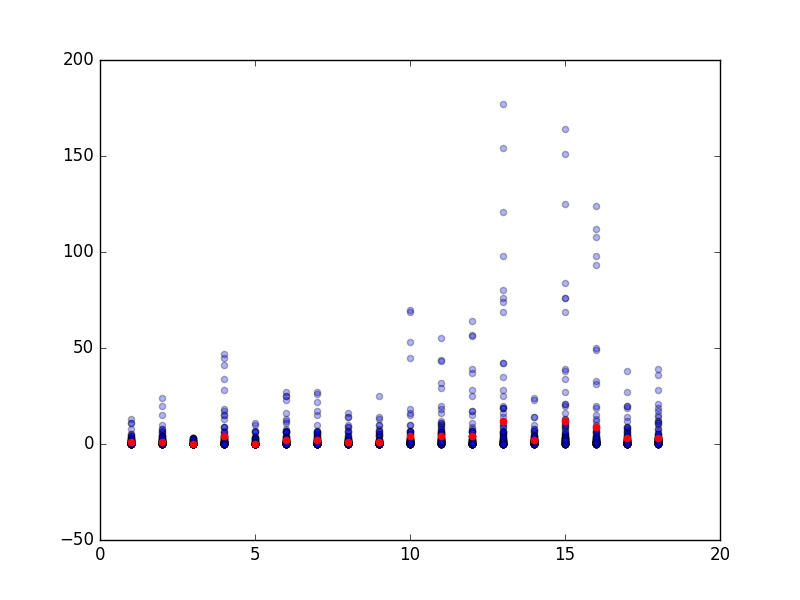
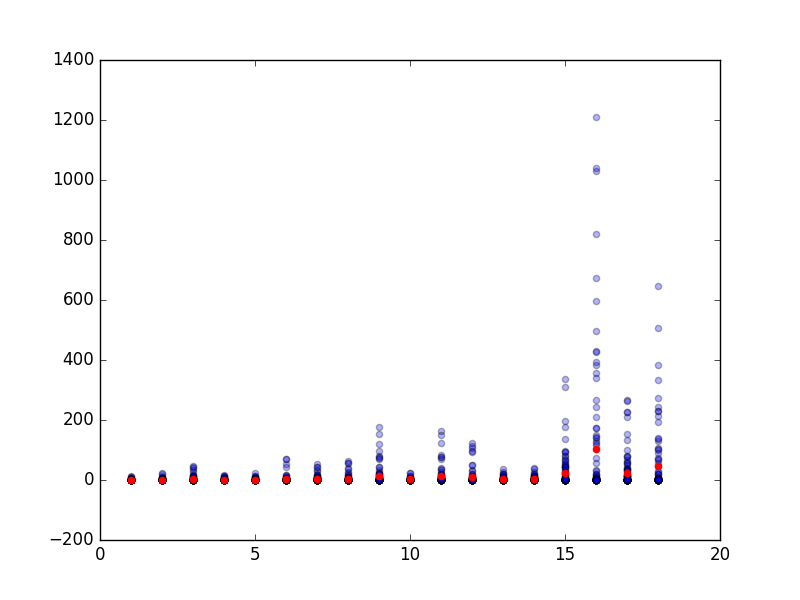
New data

diff --git a/practical4/practical4-code/plotResults.py b/practical4/practical4-code/plotResults.py
@@ -4,11 +4,7 @@ import matplotlib.pyplot as plt
 arr = [
 		[0, 0, 0, 0, 0, 2, 2, 1, 1, 4, 2, 1, 1, 2, 1, 1, 1, 0, 0, 5, 0, 3, 0, 0, 0, 0, 0, 0, 3, 1, 2, 0, 1, 2, 0, 2, 1, 3, 1, 1, 13, 0, 1, 1, 0, 1, 2, 0, 0, 0, 1, 0, 0, 0, 0, 3, 1, 1, 0, 0, 0, 0, 4, 0, 11, 100, 2, 1, 0, 8, 0, 0, 0, 0, 0, 11, 2, 0, 1, 0, 0, 0, 2, 0, 5, 3, 0, 0, 0, 4, 2, 1, 0, 1, 0, 0, 0, 0, 0, 2], 				# 4. No gravity
 		[0, 0, 0, 1, 1, 0, 1, 7, 0, 2, 0, 0, 5, 0, 1, 0, 0, 2, 2, 1, 1, 0, 4, 6, 2, 2, 1, 2, 6, 0, 1, 0, 1, 4, 0, 0, 0, 1, 0, 2, 0, 3, 1, 0, 3, 3, 15, 2, 1, 0, 20, 2, 4, 0, 8, 2, 10, 2, 1, 1, 0, 0, 1, 0, 0, 0, 0, 4, 1, 8, 1, 2, 0, 1, 4, 0, 24, 0, 0, 0, 56, 0, 3, 0, 1, 1, 0, 0, 0, 1, 0, 0, 1, 0, 0, 2, 0, 3, 0, 0],				# 5. Added gravity
-		[0, 0, 0, 0, 0, 0, 0, 0, 2, 0, 0, 0, 0, 2, 1, 0, 0, 0, 0, 0, 0, 3, 0, 0, 0, 0, 0, 0, 2, 0, 0, 2, 0, 1, 0, 1, 0, 0, 1, 2, 0, 2, 3, 0, 0, 0, 0, 0, 0, 3, 1, 0, 0, 1, 0, 0, 3, 0, 0, 0, 0, 0, 1, 2, 0, 0, 1, 0, 0, 3, 2, 0, 0, 0, 0, 1, 0, 0, 0, 0, 0, 0, 0, 0, 0, 0, 0, 1, 1, 0, 0, 0, 3, 0, 2, 0, 0, 1, 2, 1],					# 7. Added velocity
 		[0, 0, 0, 0, 0, 0, 0, 1, 0, 1, 0, 1, 1, 1, 2, 0, 4, 1, 1, 2, 0, 0, 3, 1, 0, 3, 4, 2, 0, 5, 1, 1, 0, 1, 4, 0, 3, 9, 15, 1, 0, 1, 17, 2, 18, 1, 2, 4, 9, 3, 1, 2, 0, 6, 1, 4, 0, 6, 28, 0, 45, 1, 13, 0, 0, 2, 41, 3, 7, 0, 0, 0, 34, 1, 0, 9, 47, 0, 0, 15, 0, 1, 0, 0, 0, 1, 1, 0, 3, 0, 0, 0, 2, 1, 0, 0, 0, 2, 0, 0],			# 8. Starting gravity = -4
-		[0, 0, 0, 0, 0, 1, 0, 0, 0, 0, 0, 2, 1, 0, 2, 0, 2, 3, 1, 3, 4, 1, 0, 2, 3, 0, 1, 3, 6, 10, 3, 3, 7, 1, 11, 2, 0, 0, 1, 0, 0, 0, 0, 0, 0, 0, 3, 0, 0, 7, 2, 0, 1, 0, 0, 6, 0, 0, 0, 0, 0, 0, 1, 0, 0, 1, 0, 0, 0, 0, 0, 0, 0, 0, 0, 0, 0, 0, 0, 0, 0, 0, 0, 0, 0, 0, 0, 0, 0, 0, 0, 0, 0, 0, 0, 0, 1, 0, 0, 0],					# 9. gamma = 0.2
-		[0, 0, 0, 0, 0, 0, 0, 1, 0, 0, 1, 1, 0, 0, 1, 1, 2, 1, 2, 0, 0, 1, 1, 1, 2, 2, 0, 2, 1, 2, 0, 1, 2, 3, 4, 1, 0, 8, 4, 1, 1, 3, 3, 6, 23, 25, 2, 7, 16, 1, 0, 4, 0, 0, 12, 27, 1, 0, 1, 0, 2, 0, 0, 1, 0, 0, 0, 0, 6, 7, 6, 0, 13, 3, 1, 0, 6, 25, 11, 7, 0, 1, 0, 0, 1, 0, 0, 1, 3, 1, 0, 0, 0, 2, 0, 1, 0, 0, 0, 0],			# 10. gamma = 0.9
-		[0, 0, 0, 0, 0, 0, 0, 0, 1, 0, 2, 0, 0, 1, 1, 2, 1, 0, 1, 1, 3, 5, 1, 0, 5, 1, 1, 0, 0, 1, 3, 1, 0, 0, 2, 1, 2, 5, 2, 2, 0, 1, 3, 6, 0, 1, 3, 0, 0, 6, 0, 4, 26, 27, 0, 15, 0, 0, 17, 0, 38, 2, 4, 7, 22, 0, 3, 7, 10, 0, 0, 2, 0, 1, 4, 1, 0, 2, 6, 0, 0, 0, 1, 0, 0, 0, 0, 1, 2, 0, 0, 0, 0, 0, 0, 0, 0, 0, 0, 2],			# 11. gamma = 0.5, alpha = 0.8
 		[0, 0, 0, 0, 0, 1, 0, 0, 0, 0, 0, 0, 1, 1, 5, 1, 2, 0, 1, 1, 3, 0, 0, 2, 0, 0, 2, 1, 0, 2, 1, 1, 1, 1, 9, 2, 1, 9, 2, 7, 10, 1, 0, 3, 6, 1, 7, 40, 1, 3, 0, 0, 16, 1, 3, 2, 1, 0, 1, 2, 0, 1, 0, 2, 1, 0, 1, 0, 1, 1, 0, 0, 0, 4, 0, 1, 0, 1, 1, 14, 0, 0, 4, 0, 0, 0, 1, 0, 2, 1, 0, 2, 0, 0, 0, 14, 0, 1, 0, 0], 				# 13. updating alpha over time
 		[0, 0, 2, 0, 0, 1, 0, 0, 2, 1, 0, 1, 1, 1, 0, 0, 0, 1, 0, 0, 1, 0, 1, 0, 0, 0, 1, 1, 1, 1, 2, 0, 0, 1, 1, 0, 0, 0, 1, 1, 0, 2, 0, 0, 0, 1, 0, 0, 4, 2, 4, 4, 10, 5, 8, 5, 0, 0, 13, 0, 10, 14, 0, 25, 0, 7, 6, 1, 0, 1, 0, 0, 0, 0, 0, 1, 0, 0, 1, 0, 1, 0, 0, 0, 0, 0, 1, 0, 0, 0, 0, 1, 1, 0, 5, 7, 2, 2, 0, 0], 				# 14. same conditions as 8
 		[0, 0, 0, 0, 0, 0, 0, 0, 0, 0, 1, 1, 0, 1, 1, 1, 0, 0, 0, 0, 1, 1, 1, 0, 1, 1, 1, 1, 2, 1, 0, 0, 2, 2, 3, 5, 2, 2, 1, 0, 2, 1, 10, 0, 2, 0, 1, 2, 6, 3, 2, 1, 7, 1, 1, 1, 1, 5, 3, 3, 1, 7, 1, 3, 2, 2, 10, 0, 0, 5, 7, 0, 0, 2, 45, 15, 3, 0, 16, 0, 6, 0, 70, 0, 2, 1, 53, 0, 3, 0, 219, 2, 0, 69, 0, 249, 1, 358, 247, 18],	# 15. marginBox = 20 
@@ -20,6 +16,10 @@ arr = [
 		[0, 0, 0, 0, 0, 0, 0, 0, 0, 0, 0, 0, 2, 1, 1, 2, 0, 2, 6, 1, 1, 1, 0, 0, 6, 1, 0, 3, 0, 1, 1, 1, 1, 2, 1, 3, 2, 3, 1, 2, 8, 3, 1, 0, 15, 2, 49, 33, 1, 2, 31, 1, 7, 0, 0, 2, 9, 93, 124, 50, 0, 223, 6, 3, 1, 10, 215, 4, 98, 12, 2, 108, 1, 112, 1, 1, 1, 19, 1, 4, 20, 1, 0, 0, 1, 2, 1, 1, 4, 0, 1, 3, 13, 2, 5, 1, 3, 0, 1, 1], # 21. Repeat of 20
 		[0, 0, 0, 1, 0, 0, 0, 0, 0, 0, 0, 2, 0, 0, 0, 0, 0, 2, 0, 2, 0, 1, 0, 1, 1, 1, 2, 1, 0, 1, 1, 2, 1, 0, 1, 1, 2, 4, 4, 2, 0, 2, 0, 2, 0, 2, 2, 0, 9, 0, 1, 6, 9, 1, 0, 19, 1, 3, 8, 6, 0, 20, 38, 4, 0, 0, 0, 8, 0, 3, 2, 52, 0, 1, 27, 1, 66, 7, 20, 1, 0, 0, 1, 3, 1, 2, 9, 0, 1, 5, 3, 14, 12, 1, 0, 5, 4, 1, 0, 3],			# 22. Added epsilon-greedy (e = 1/tick)
 		[0, 0, 3, 0, 0, 0, 0, 0, 0, 0, 0, 0, 0, 0, 0, 0, 0, 1, 2, 3, 2, 2, 8, 0, 2, 4, 2, 1, 3, 2, 3, 8, 1, 1, 1, 1, 1, 2, 1, 3, 2, 1, 12, 1, 19, 5, 1, 1, 14, 2, 4, 3, 1, 3, 36, 6, 1, 1, 12, 2, 2, 3, 11, 1, 1, 3, 1, 0, 39, 4, 89, 15, 17, 2, 28, 1, 1, 0, 3, 2, 10, 1, 3, 2, 0, 1, 1, 2, 21, 0, 2, 0, 2, 11, 0, 3, 5, 3, 5, 1], 	# 23. Epsilon cutoff at 0.01
+		[0, 0, 0, 0, 1, 0, 0, 0, 0, 0, 1, 0, 0, 0, 0, 0, 0, 2, 2, 0, 0, 0, 0, 0, 5, 0, 2, 6, 1, 2, 12, 65, 42, 24, 2, 1, 50, 136, 2, 933, 1, 17, 3, 4, 0, 2, 9, 79, 311, 33, 178, 2, 2, 2, 2, 1, 2, 1, 9, 45, 1, 26, 1, 34, 1, 1, 43, 24, 2, 1, 70, 198, 1, 2, 2, 93, 2, 0, 9, 1, 48, 3, 336, 56, 0, 43, 1, 55, 0, 96, 92, 3, 21, 2, 1, 79, 0, 2, 68, 6], # 27. alpha falling as (0.5 / (tick / 20 + 1))
+		[0, 0, 0, 0, 0, 1, 0, 0, 3, 0, 0, 5, 0, 0, 1, 11, 3, 10, 2, 3, 0, 2, 8, 1, 14, 0, 6, 8, 2, 19, 2, 116, 140, 2, 7, 1, 2, 4, 1, 1, 34, 149, 0, 0, 131, 2, 1, 1, 1, 385, 266, 429, 0, 2, 17, 1, 3, 2, 174, 56, 2, 4, 394, 172, 1, 245, 1, 30, 144, 427, 125, 1, 210, 597, 5, 1, 1, 0, 1, 1, 1, 358, 821, 498, 1, 1, 5, 674, 1, 1, 21, 1031, 0, 2, 1041, 1210, 0, 339, 75, 1], # 28. alpha update starting at 0.2
+		[0, 0, 1, 0, 0, 0, 0, 2, 2, 0, 1, 1, 2, 0, 1, 0, 0, 18, 2, 1, 29, 1, 1, 1, 14, 1, 1, 3, 4, 1, 18, 41, 1, 1, 209, 12, 79, 9, 1, 267, 37, 1, 4, 1, 13, 40, 2, 227, 4, 2, 15, 57, 2, 0, 1, 49, 1, 1, 14, 0, 1, 35, 1, 2, 60, 0, 0, 1, 0, 3, 0, 134, 18, 13, 76, 35, 79, 99, 2, 226, 1, 0, 1, 58, 3, 0, 0, 2, 1, 265, 154, 1, 1, 10, 1, 34, 1, 1, 68, 4], # 29. gamma = 0.2
+		[0, 0, 0, 0, 0, 1, 3, 0, 4, 0, 0, 0, 5, 4, 7, 3, 0, 1, 0, 1, 0, 2, 6, 2, 6, 5, 1, 19, 48, 56, 3, 108, 3, 0, 1, 1, 1, 2, 11, 1, 2, 0, 4, 71, 2, 104, 7, 31, 1, 1, 4, 382, 1, 7, 272, 2, 2, 2, 0, 68, 6, 0, 0, 0, 1, 19, 193, 100, 2, 2, 3, 646, 1, 90, 2, 131, 0, 1, 2, 138, 0, 1, 0, 1, 506, 215, 0, 0, 20, 4, 26, 139, 5, 231, 73, 245, 332, 229, 0, 2], # 30. Repeat of 28
 	]
 
 # Eliminate outliers

diff --git a/practical4/practical4-code/plotTime.py b/practical4/practical4-code/plotTime.py
@@ -4,6 +4,8 @@ import matplotlib.pyplot as plt
 arr = [
 		[0, 0, 0, 1, 0, 0, 0, 0, 0, 0, 0, 2, 0, 0, 0, 0, 0, 2, 0, 2, 0, 1, 0, 1, 1, 1, 2, 1, 0, 1, 1, 2, 1, 0, 1, 1, 2, 4, 4, 2, 0, 2, 0, 2, 0, 2, 2, 0, 9, 0, 1, 6, 9, 1, 0, 19, 1, 3, 8, 6, 0, 20, 38, 4, 0, 0, 0, 8, 0, 3, 2, 52, 0, 1, 27, 1, 66, 7, 20, 1, 0, 0, 1, 3, 1, 2, 9, 0, 1, 5, 3, 14, 12, 1, 0, 5, 4, 1, 0, 3],			# 22. Added epsilon-greedy (e = 1/tick)
 		[0, 0, 3, 0, 0, 0, 0, 0, 0, 0, 0, 0, 0, 0, 0, 0, 0, 1, 2, 3, 2, 2, 8, 0, 2, 4, 2, 1, 3, 2, 3, 8, 1, 1, 1, 1, 1, 2, 1, 3, 2, 1, 12, 1, 19, 5, 1, 1, 14, 2, 4, 3, 1, 3, 36, 6, 1, 1, 12, 2, 2, 3, 11, 1, 1, 3, 1, 0, 39, 4, 89, 15, 17, 2, 28, 1, 1, 0, 3, 2, 10, 1, 3, 2, 0, 1, 1, 2, 21, 0, 2, 0, 2, 11, 0, 3, 5, 3, 5, 1], 	# 23. Epsilon cutoff at 0.01
+		[0, 0, 0, 0, 1, 0, 0, 0, 0, 0, 1, 0, 0, 0, 0, 0, 0, 2, 2, 0, 0, 0, 0, 0, 5, 0, 2, 6, 1, 2, 12, 65, 42, 24, 2, 1, 50, 136, 2, 933, 1, 17, 3, 4, 0, 2, 9, 79, 311, 33, 178, 2, 2, 2, 2, 1, 2, 1, 9, 45, 1, 26, 1, 34, 1, 1, 43, 24, 2, 1, 70, 198, 1, 2, 2, 93, 2, 0, 9, 1, 48, 3, 336, 56, 0, 43, 1, 55, 0, 96, 92, 3, 21, 2, 1, 79, 0, 2, 68, 6], # 27. alpha falling as (0.5 / (tick / 20 + 1))
+		[0, 0, 0, 0, 0, 1, 0, 0, 3, 0, 0, 5, 0, 0, 1, 11, 3, 10, 2, 3, 0, 2, 8, 1, 14, 0, 6, 8, 2, 19, 2, 116, 140, 2, 7, 1, 2, 4, 1, 1, 34, 149, 0, 0, 131, 2, 1, 1, 1, 385, 266, 429, 0, 2, 17, 1, 3, 2, 174, 56, 2, 4, 394, 172, 1, 245, 1, 30, 144, 427, 125, 1, 210, 597, 5, 1, 1, 0, 1, 1, 1, 358, 821, 498, 1, 1, 5, 674, 1, 1, 21, 1031, 0, 2, 1041, 1210, 0, 339, 75, 1], # 28. alpha update starting at 0.2
 	]
 
 # Eliminate outliers
@@ -31,5 +33,5 @@ plt.show()
 
 for i in xrange(len(arr)):
 	x = [j + 1 for j in xrange(len(arr[i]))]
-	plt.plot(x[:20], sorted(arr[i])[::-1][:20])
+	plt.plot(x[:40], sorted(arr[i])[::-1][:40])
 plt.show()
